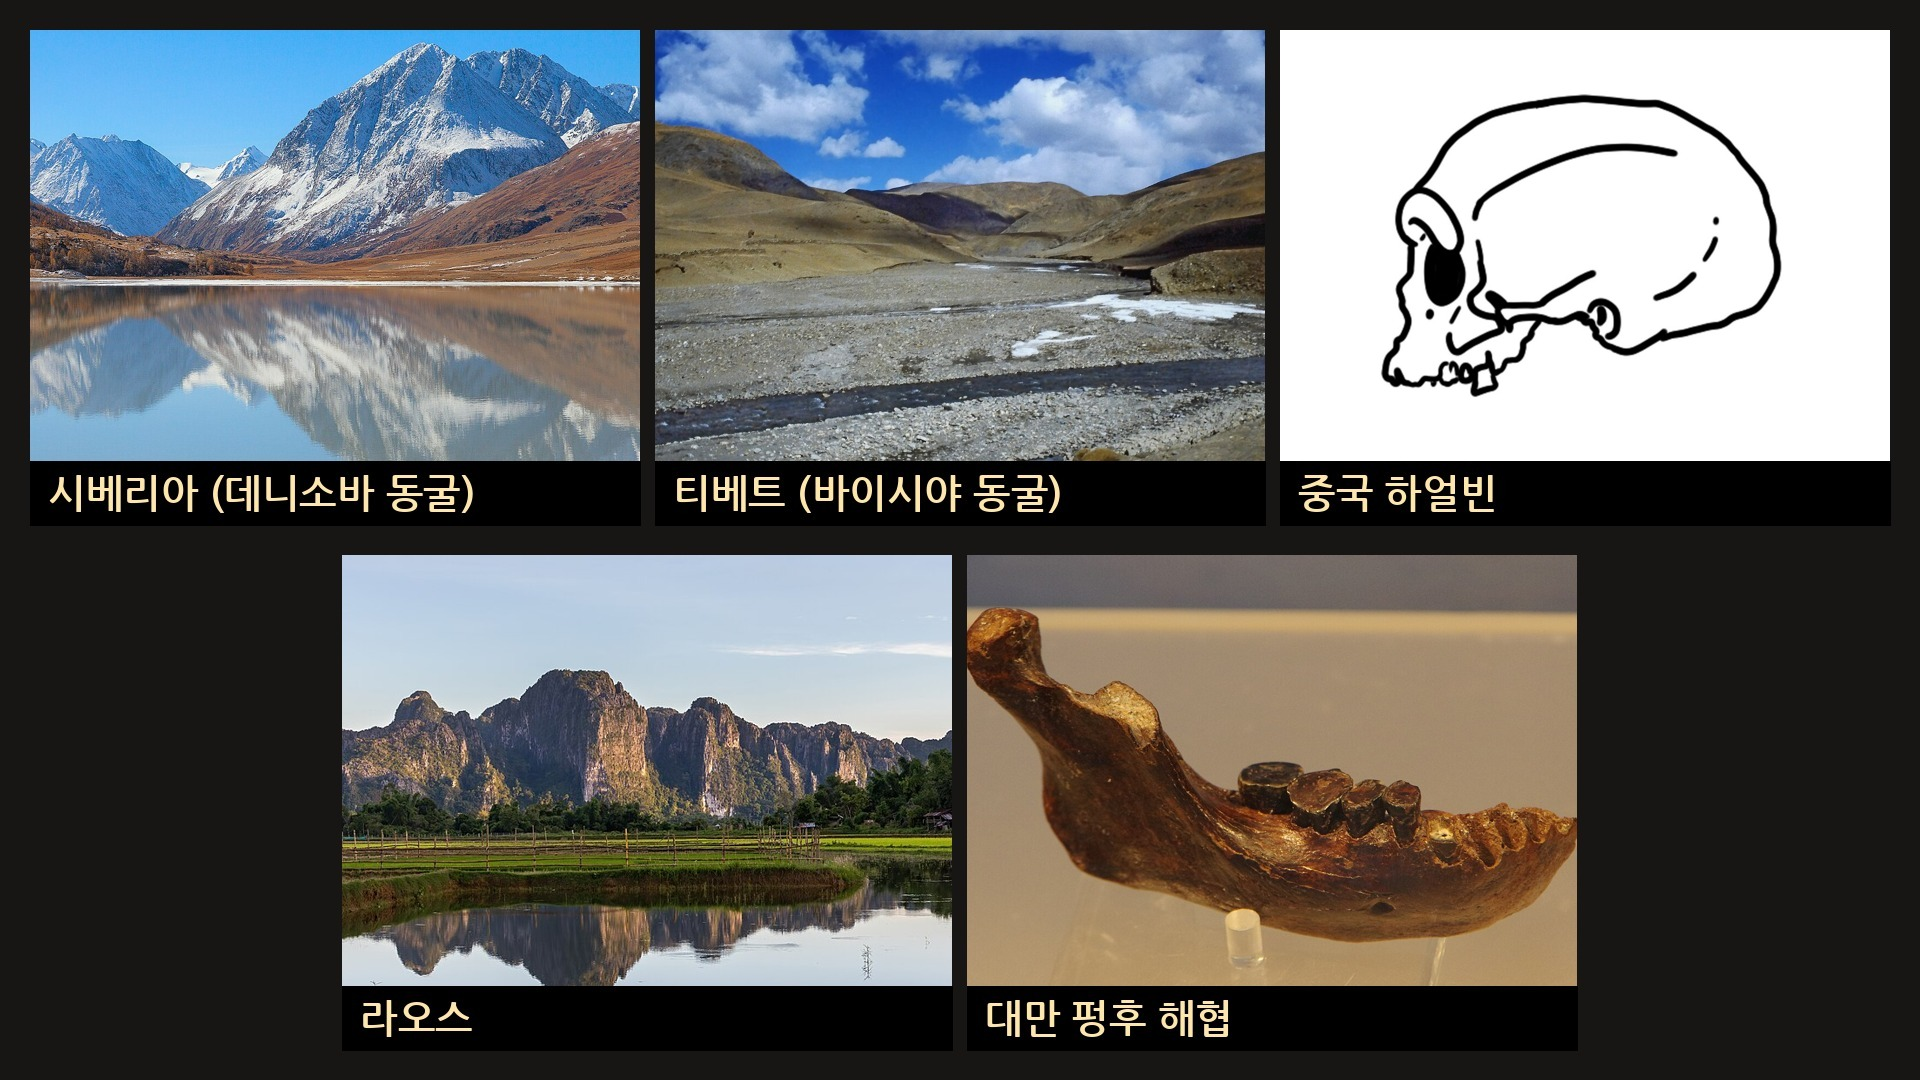
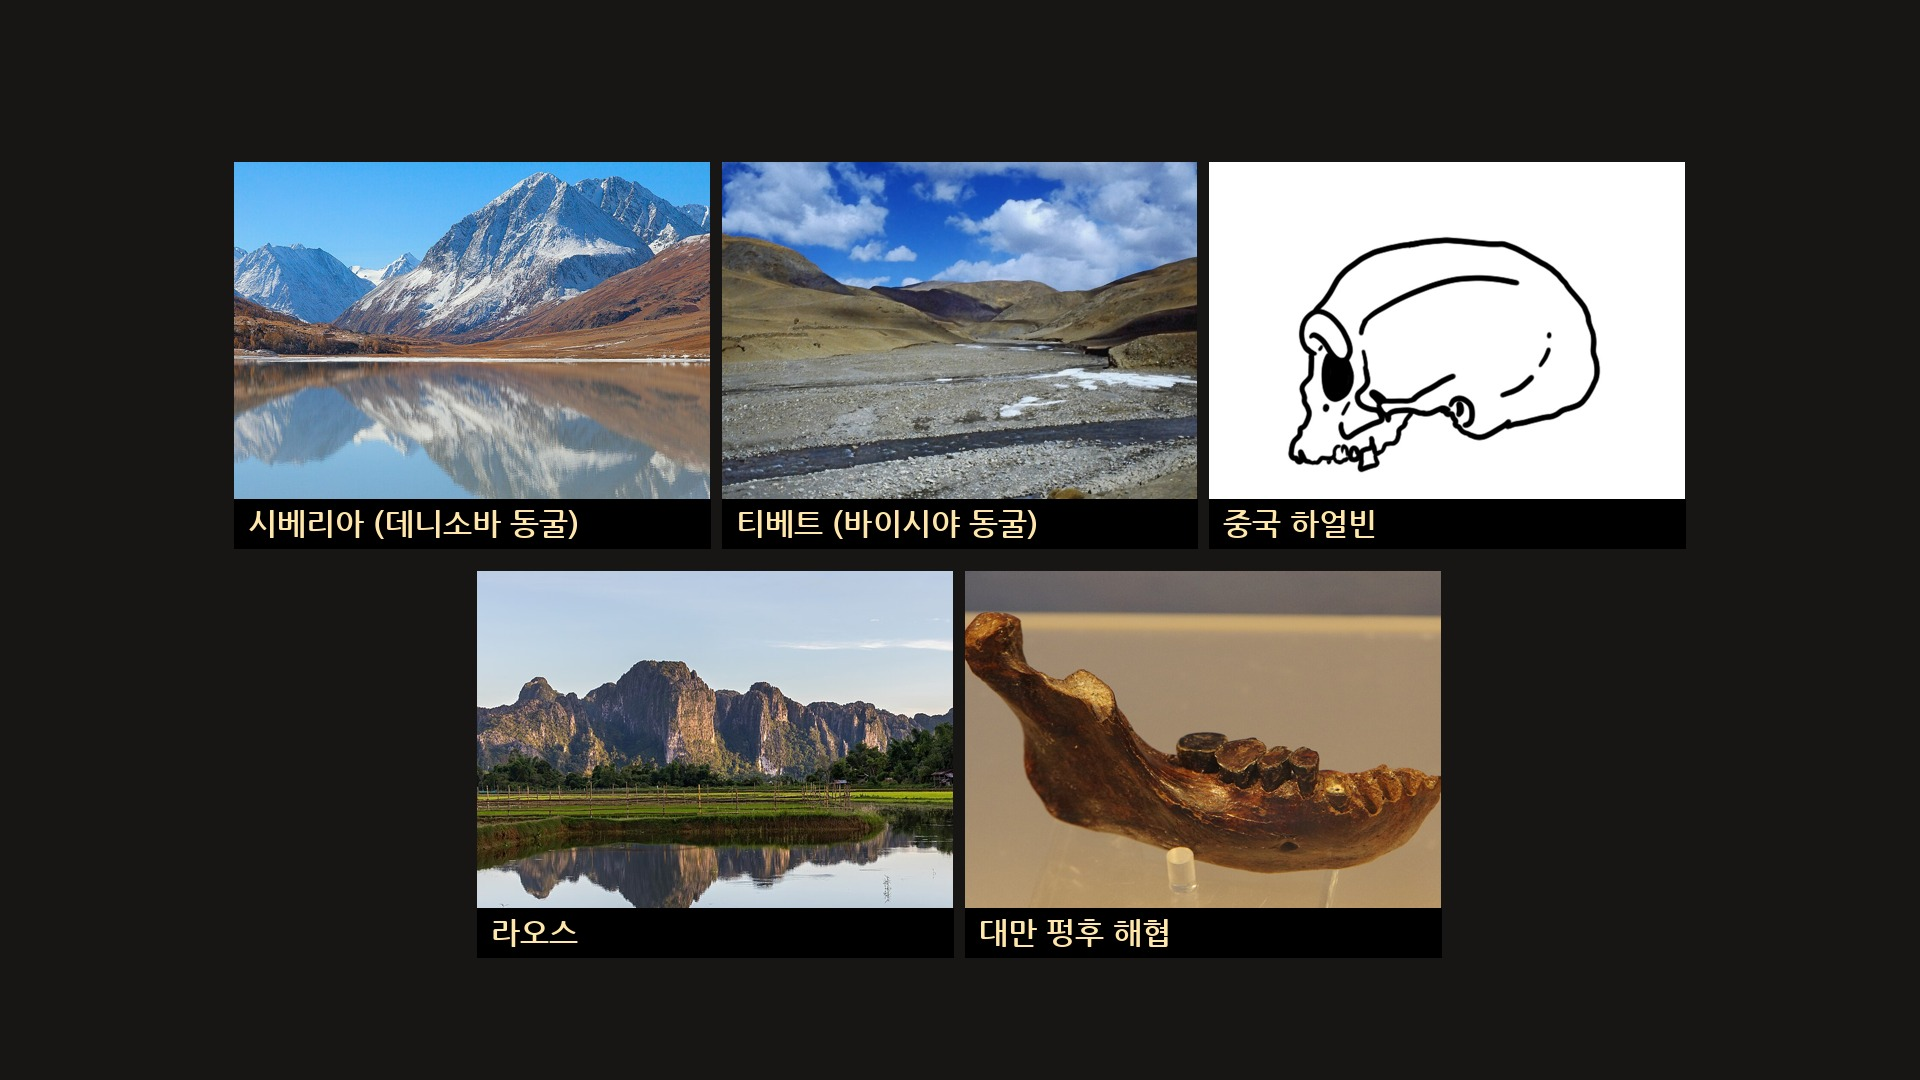
데니소바인: c27 모음 여백(움직여도 안 잘림), 같은 그림 연속 피함(c12→c09)
Claude-Session: https://claude.ai/code/session_01KXxVRDf2n33bG4QZRRf5GP

diff --git a/장문/데니소바/데니소바인.py b/장문/데니소바/데니소바인.py
@@ -141,7 +141,7 @@ STORY = """{c01}
 
 이 소녀의 어머니는 네안데르탈인, 아버지는 데니소바인이었습니다. 서로 다른 두 인류 사이에서 태어난 아이였던 것입니다. 연구자들은 소녀에게 데니라는 별명을 붙였습니다. 더 놀라운 것은, 데니의 아버지 쪽 조상에도 네안데르탈인의 피가 조금 섞여 있었다는 점입니다.
 
-{c12}
+{c09}
 
 두 인류의 만남은 한 번뿐인 우연이 아니었습니다. 여러 번, 오랜 세월에 걸쳐 일어났던 것입니다.
 
